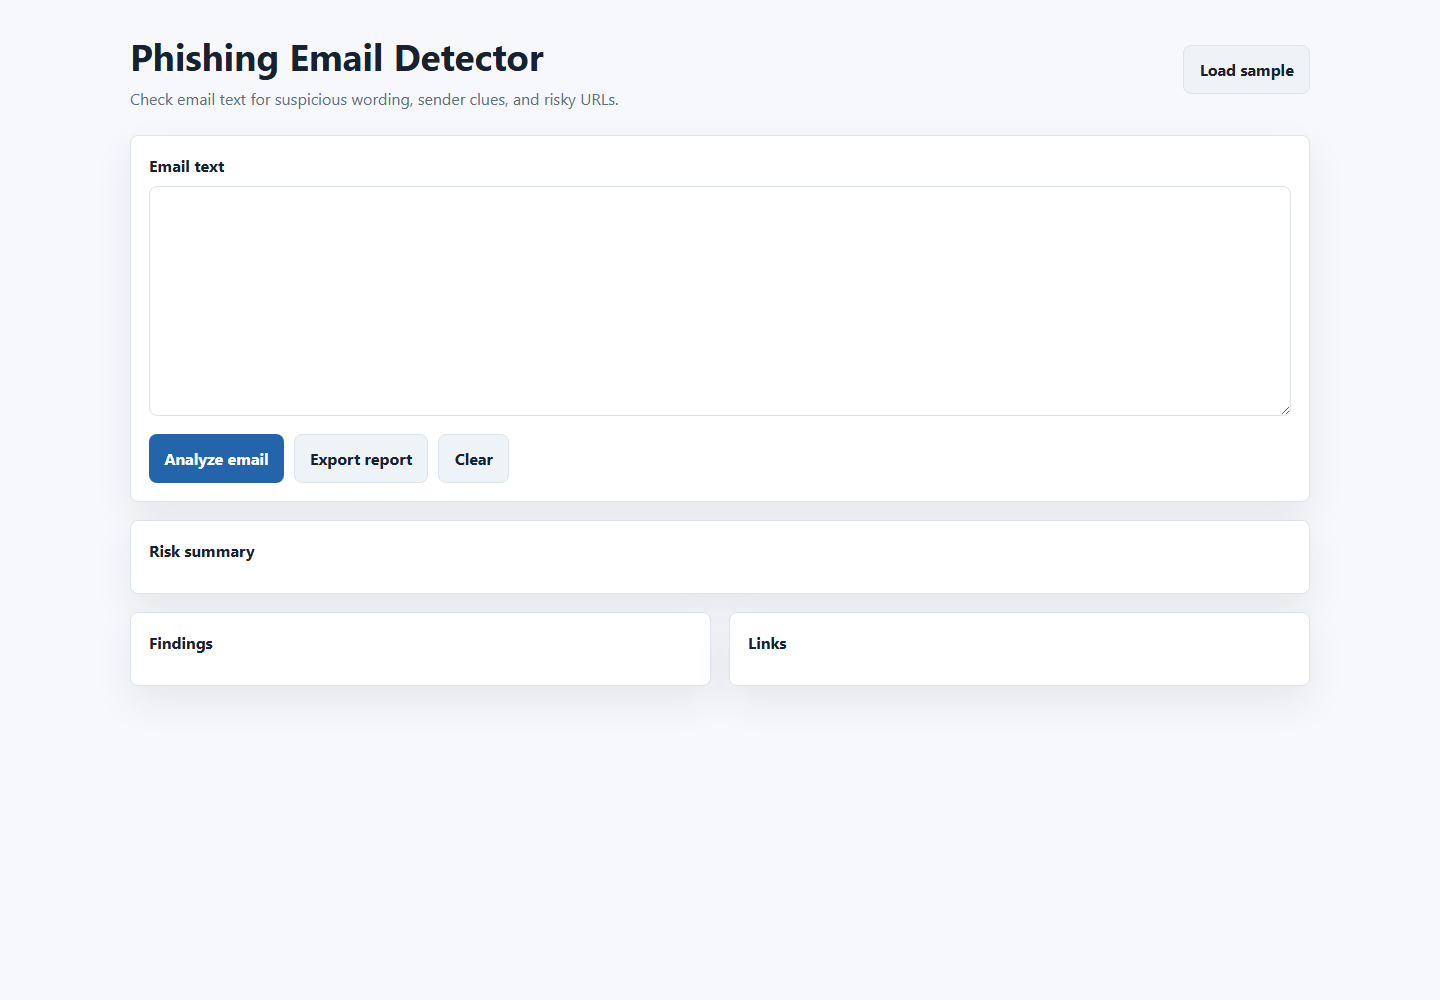
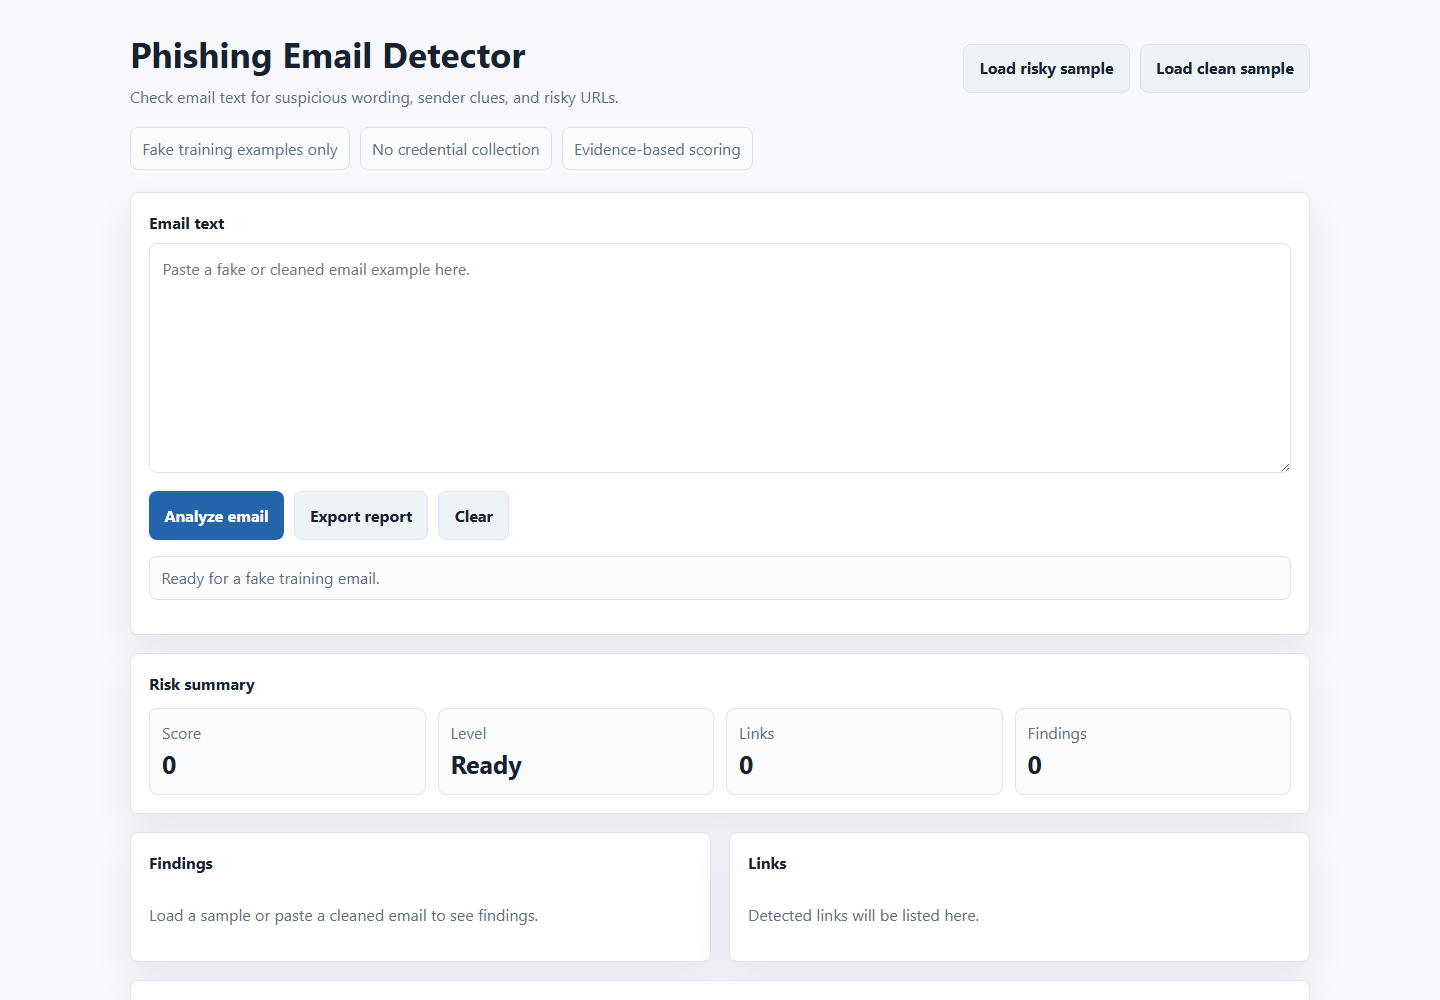
Polish phishing detector portfolio app

diff --git a/app.js b/app.js
@@ -1,11 +1,14 @@
 const emailInput = document.querySelector("#email-input");
 const analyzeButton = document.querySelector("#analyze");
 const sampleButton = document.querySelector("#sample");
+const cleanSampleButton = document.querySelector("#clean-sample");
 const clearButton = document.querySelector("#clear");
 const exportButton = document.querySelector("#export");
 const scoreBox = document.querySelector("#score");
 const findingsBox = document.querySelector("#findings");
 const linksBox = document.querySelector("#links");
+const guidanceBox = document.querySelector("#guidance");
+const statusBox = document.querySelector("#status");
 
 let lastReport = null;
 
@@ -19,6 +22,16 @@ Visit https://paypa1-support.example/login now to restore access.
 
 Regards,
 Account Support`;
+
+const cleanSampleEmail = `From: [email redacted]
+Subject: Study room booking confirmation
+
+Hi Abbas,
+
+Your study room booking is confirmed for Thursday at 14:00. You can manage the booking from your normal student portal.
+
+Thanks,
+Library Desk`;
 
 const phraseRules = [
   ["Urgency language", /\burgent\b|\b24 hours\b|\bimmediately\b|\btoday\b|\bfinal warning\b/i, 14],
@@ -108,6 +121,50 @@ function render(report) {
       </div>
     `).join("")
     : "<p class=\"muted\">No URLs detected.</p>";
+  guidanceBox.innerHTML = buildGuidance(report).map(item => `
+    <div class="guidance-card">
+      <strong>${item.title}</strong>
+      <span>${item.detail}</span>
+    </div>
+  `).join("");
+  statusBox.textContent = `Analysis complete: ${report.level.toLowerCase()} with ${report.findings.length} finding${report.findings.length === 1 ? "" : "s"}.`;
+}
+
+function buildGuidance(report) {
+  const notes = [
+    {
+      title: "Do not submit credentials",
+      detail: "A legitimate check should never ask for a password inside an email reply or random form."
+    },
+    {
+      title: "Check the real channel",
+      detail: "Open the service manually from a bookmark or known address before trusting a link."
+    }
+  ];
+  if (report.score >= 70) {
+    notes.push({ title: "Likely training phish", detail: "The message has enough warning signs to treat it as unsafe in a training exercise." });
+  } else if (report.score >= 40) {
+    notes.push({ title: "Needs review", detail: "Some signals are suspicious, but the message still needs context before calling it phishing." });
+  } else {
+    notes.push({ title: "Low signal", detail: "No major rule hits were found. Keep checking sender context and attachments manually." });
+  }
+  return notes;
+}
+
+function renderEmptyState() {
+  scoreBox.innerHTML = `
+    <div class="metric"><span class="muted">Score</span><strong>0</strong></div>
+    <div class="metric"><span class="muted">Level</span><strong>Ready</strong></div>
+    <div class="metric"><span class="muted">Links</span><strong>0</strong></div>
+    <div class="metric"><span class="muted">Findings</span><strong>0</strong></div>
+  `;
+  findingsBox.innerHTML = "<p class=\"muted\">Load a sample or paste a cleaned email to see findings.</p>";
+  linksBox.innerHTML = "<p class=\"muted\">Detected links will be listed here.</p>";
+  guidanceBox.innerHTML = `
+    <div class="guidance-card"><strong>Use fake examples</strong><span>Keep real inbox content and private messages out of this demo.</span></div>
+    <div class="guidance-card"><strong>Read the evidence</strong><span>The score is only useful when the matched wording and links make sense.</span></div>
+    <div class="guidance-card"><strong>Compare examples</strong><span>Try both built-in samples to see what changes between normal and suspicious mail.</span></div>
+  `;
 }
 
 function escapeHtml(value) {
@@ -125,6 +182,10 @@ function download(filename, content) {
 }
 
 analyzeButton.addEventListener("click", () => {
+  if (!emailInput.value.trim()) {
+    statusBox.textContent = "Paste an email or load a sample first.";
+    return;
+  }
   lastReport = analyzeEmail(emailInput.value);
   render(lastReport);
 });
@@ -133,13 +194,24 @@ sampleButton.addEventListener("click", () => {
   lastReport = analyzeEmail(emailInput.value);
   render(lastReport);
 });
+cleanSampleButton.addEventListener("click", () => {
+  emailInput.value = cleanSampleEmail;
+  lastReport = analyzeEmail(emailInput.value);
+  render(lastReport);
+});
 clearButton.addEventListener("click", () => {
   emailInput.value = "";
   scoreBox.innerHTML = "";
   findingsBox.innerHTML = "";
   linksBox.innerHTML = "";
+  guidanceBox.innerHTML = "";
+  statusBox.textContent = "Cleared. Ready for another training example.";
   lastReport = null;
+  renderEmptyState();
 });
 exportButton.addEventListener("click", () => {
   if (lastReport) download("phishing-email-report.json", JSON.stringify(lastReport, null, 2));
+  else statusBox.textContent = "Run an analysis before exporting a report.";
 });
+
+renderEmptyState();

diff --git a/styles.css b/styles.css
@@ -16,16 +16,23 @@
 
 * { box-sizing: border-box; }
 
+html {
+  overflow-x: hidden;
+}
+
 body {
   margin: 0;
   font-family: Inter, ui-sans-serif, system-ui, -apple-system, BlinkMacSystemFont, "Segoe UI", sans-serif;
   background: var(--bg);
   color: var(--text);
   line-height: 1.5;
+  overflow-x: hidden;
 }
 
 button, input, textarea, select {
   font: inherit;
+  max-width: 100%;
+  min-width: 0;
 }
 
 button {
@@ -68,22 +75,48 @@ select:focus-visible {
   margin-bottom: 24px;
 }
 
+.header-actions {
+  display: flex;
+  flex-wrap: wrap;
+  gap: 10px;
+  justify-content: flex-end;
+}
+
 .brand h1 {
   margin: 0;
-  font-size: clamp(1.45rem, 3vw, 2.3rem);
+  font-size: 2.2rem;
   letter-spacing: 0;
+  overflow-wrap: anywhere;
 }
 
 .brand p {
   margin: 4px 0 0;
   color: var(--muted);
   max-width: 760px;
+  overflow-wrap: anywhere;
 }
 
 .grid {
   display: grid;
   grid-template-columns: repeat(12, 1fr);
   gap: 18px;
+}
+
+.status-strip {
+  display: flex;
+  flex-wrap: wrap;
+  gap: 10px;
+  margin: -6px 0 22px;
+}
+
+.status-strip span,
+.status-note {
+  border: 1px solid var(--line);
+  border-radius: 8px;
+  background: #fbfcfe;
+  color: var(--muted);
+  padding: 0.55rem 0.7rem;
+  overflow-wrap: anywhere;
 }
 
 .panel {
@@ -135,7 +168,7 @@ textarea {
 
 .metric-row {
   display: grid;
-  grid-template-columns: repeat(4, minmax(0, 1fr));
+  grid-template-columns: repeat(auto-fit, minmax(150px, 1fr));
   gap: 12px;
 }
 
@@ -161,6 +194,25 @@ textarea {
   gap: 10px;
 }
 
+.guidance-grid {
+  display: grid;
+  grid-template-columns: repeat(3, minmax(0, 1fr));
+  gap: 12px;
+}
+
+.guidance-card {
+  border: 1px solid var(--line);
+  border-radius: 8px;
+  padding: 12px;
+  background: #fbfcfe;
+}
+
+.guidance-card span {
+  display: block;
+  color: var(--muted);
+  margin-top: 4px;
+}
+
 .item {
   border: 1px solid var(--line);
   border-radius: 8px;
@@ -173,6 +225,7 @@ textarea {
 .tag {
   display: inline-flex;
   align-items: center;
+  max-width: 100%;
   border-radius: 999px;
   border: 1px solid var(--line);
   padding: 0.18rem 0.5rem;
@@ -180,6 +233,7 @@ textarea {
   background: #f5f8fb;
   color: var(--muted);
   font-size: 0.82rem;
+  overflow-wrap: anywhere;
 }
 
 canvas {
@@ -204,13 +258,15 @@ th, td {
 
 @media (max-width: 820px) {
   .topbar { align-items: flex-start; flex-direction: column; }
+  .header-actions { justify-content: flex-start; }
   .panel,
   .panel.third { grid-column: 1 / -1; }
-  .metric-row { grid-template-columns: repeat(2, minmax(0, 1fr)); }
+  .guidance-grid { grid-template-columns: 1fr; }
 }
 
 @media (max-width: 520px) {
   .app-shell { width: min(100% - 20px, 1180px); padding-top: 18px; }
+  .brand h1 { font-size: 1.55rem; line-height: 1.15; }
   .metric-row { grid-template-columns: 1fr; }
   button { width: 100%; }
 }

diff --git a/index.html b/index.html
@@ -13,17 +13,26 @@
         <h1>Phishing Email Detector</h1>
         <p>Check email text for suspicious wording, sender clues, and risky URLs.</p>
       </div>
-      <button id="sample" class="secondary">Load sample</button>
+      <div class="header-actions">
+        <button id="sample" class="secondary">Load risky sample</button>
+        <button id="clean-sample" class="secondary">Load clean sample</button>
+      </div>
     </header>
+    <section class="status-strip" aria-label="project status">
+      <span>Fake training examples only</span>
+      <span>No credential collection</span>
+      <span>Evidence-based scoring</span>
+    </section>
     <section class="grid">
       <div class="panel full">
         <label for="email-input">Email text</label>
-        <textarea id="email-input" spellcheck="false"></textarea>
+        <textarea id="email-input" spellcheck="false" placeholder="Paste a fake or cleaned email example here."></textarea>
         <div class="actions">
           <button id="analyze">Analyze email</button>
           <button id="export" class="secondary">Export report</button>
           <button id="clear" class="secondary">Clear</button>
         </div>
+        <p id="status" class="status-note" aria-live="polite">Ready for a fake training email.</p>
       </div>
       <div class="panel full">
         <h2>Risk summary</h2>
@@ -36,6 +45,10 @@
       <div class="panel">
         <h2>Links</h2>
         <div id="links" class="list"></div>
+      </div>
+      <div class="panel full">
+        <h2>Triage notes</h2>
+        <div id="guidance" class="guidance-grid"></div>
       </div>
     </section>
   </main>

diff --git a/README.md b/README.md
@@ -25,7 +25,12 @@ The test checks JavaScript syntax, required project files, README sections, scre
 - Accepts pasted email text.
 - Flags common training indicators such as urgency, password-reset wording, and suspicious links.
 - Shows matched evidence so the result is reviewable.
-- Includes a sample email for local testing.
+- Includes risky and clean sample emails for comparison.
+- Adds triage notes that explain what to check next.
+
+## Completion Status
+
+This is complete as a beginner phishing-awareness project. It has fake training samples, visible evidence, link checks, export, screenshot, and a smoke test.
 
 ## Safety Note
 
@@ -39,9 +44,9 @@ Use fake or cleaned examples only. This project is for awareness training and do
 
 ## Next Improvements
 
-- Add three built-in examples: safe, suspicious, and obvious training phish.
 - Highlight matched phrases directly in the email text.
 - Add a small false-positive notes section.
+- Add a third borderline example for practising review judgement.
 
 ## Portfolio Notes
 

diff --git a/PSEUDOCODE.md b/PSEUDOCODE.md
@@ -1,11 +1,11 @@
 # Pseudocode
 
-1. Read the email pasted by the user.
+1. Read the email pasted by the user or load one of the fake training samples.
 2. Search for pressure language, credential requests, and suspicious sender wording.
 3. Extract every URL and inspect its hostname.
 4. Add risk points for shortened links, lookalike brands, IP hosts, and missing HTTPS.
 5. Convert the total into low, suspicious, or high risk.
-6. Show the findings and let the user export the report.
+6. Show the findings, link notes, triage guidance, and export option.
 
-Small human note: the app explains the score because mystery scores are not useful to anyone.
+Review note: the score should always be paired with visible evidence, because awareness tools are more useful when the reasoning is clear.
 